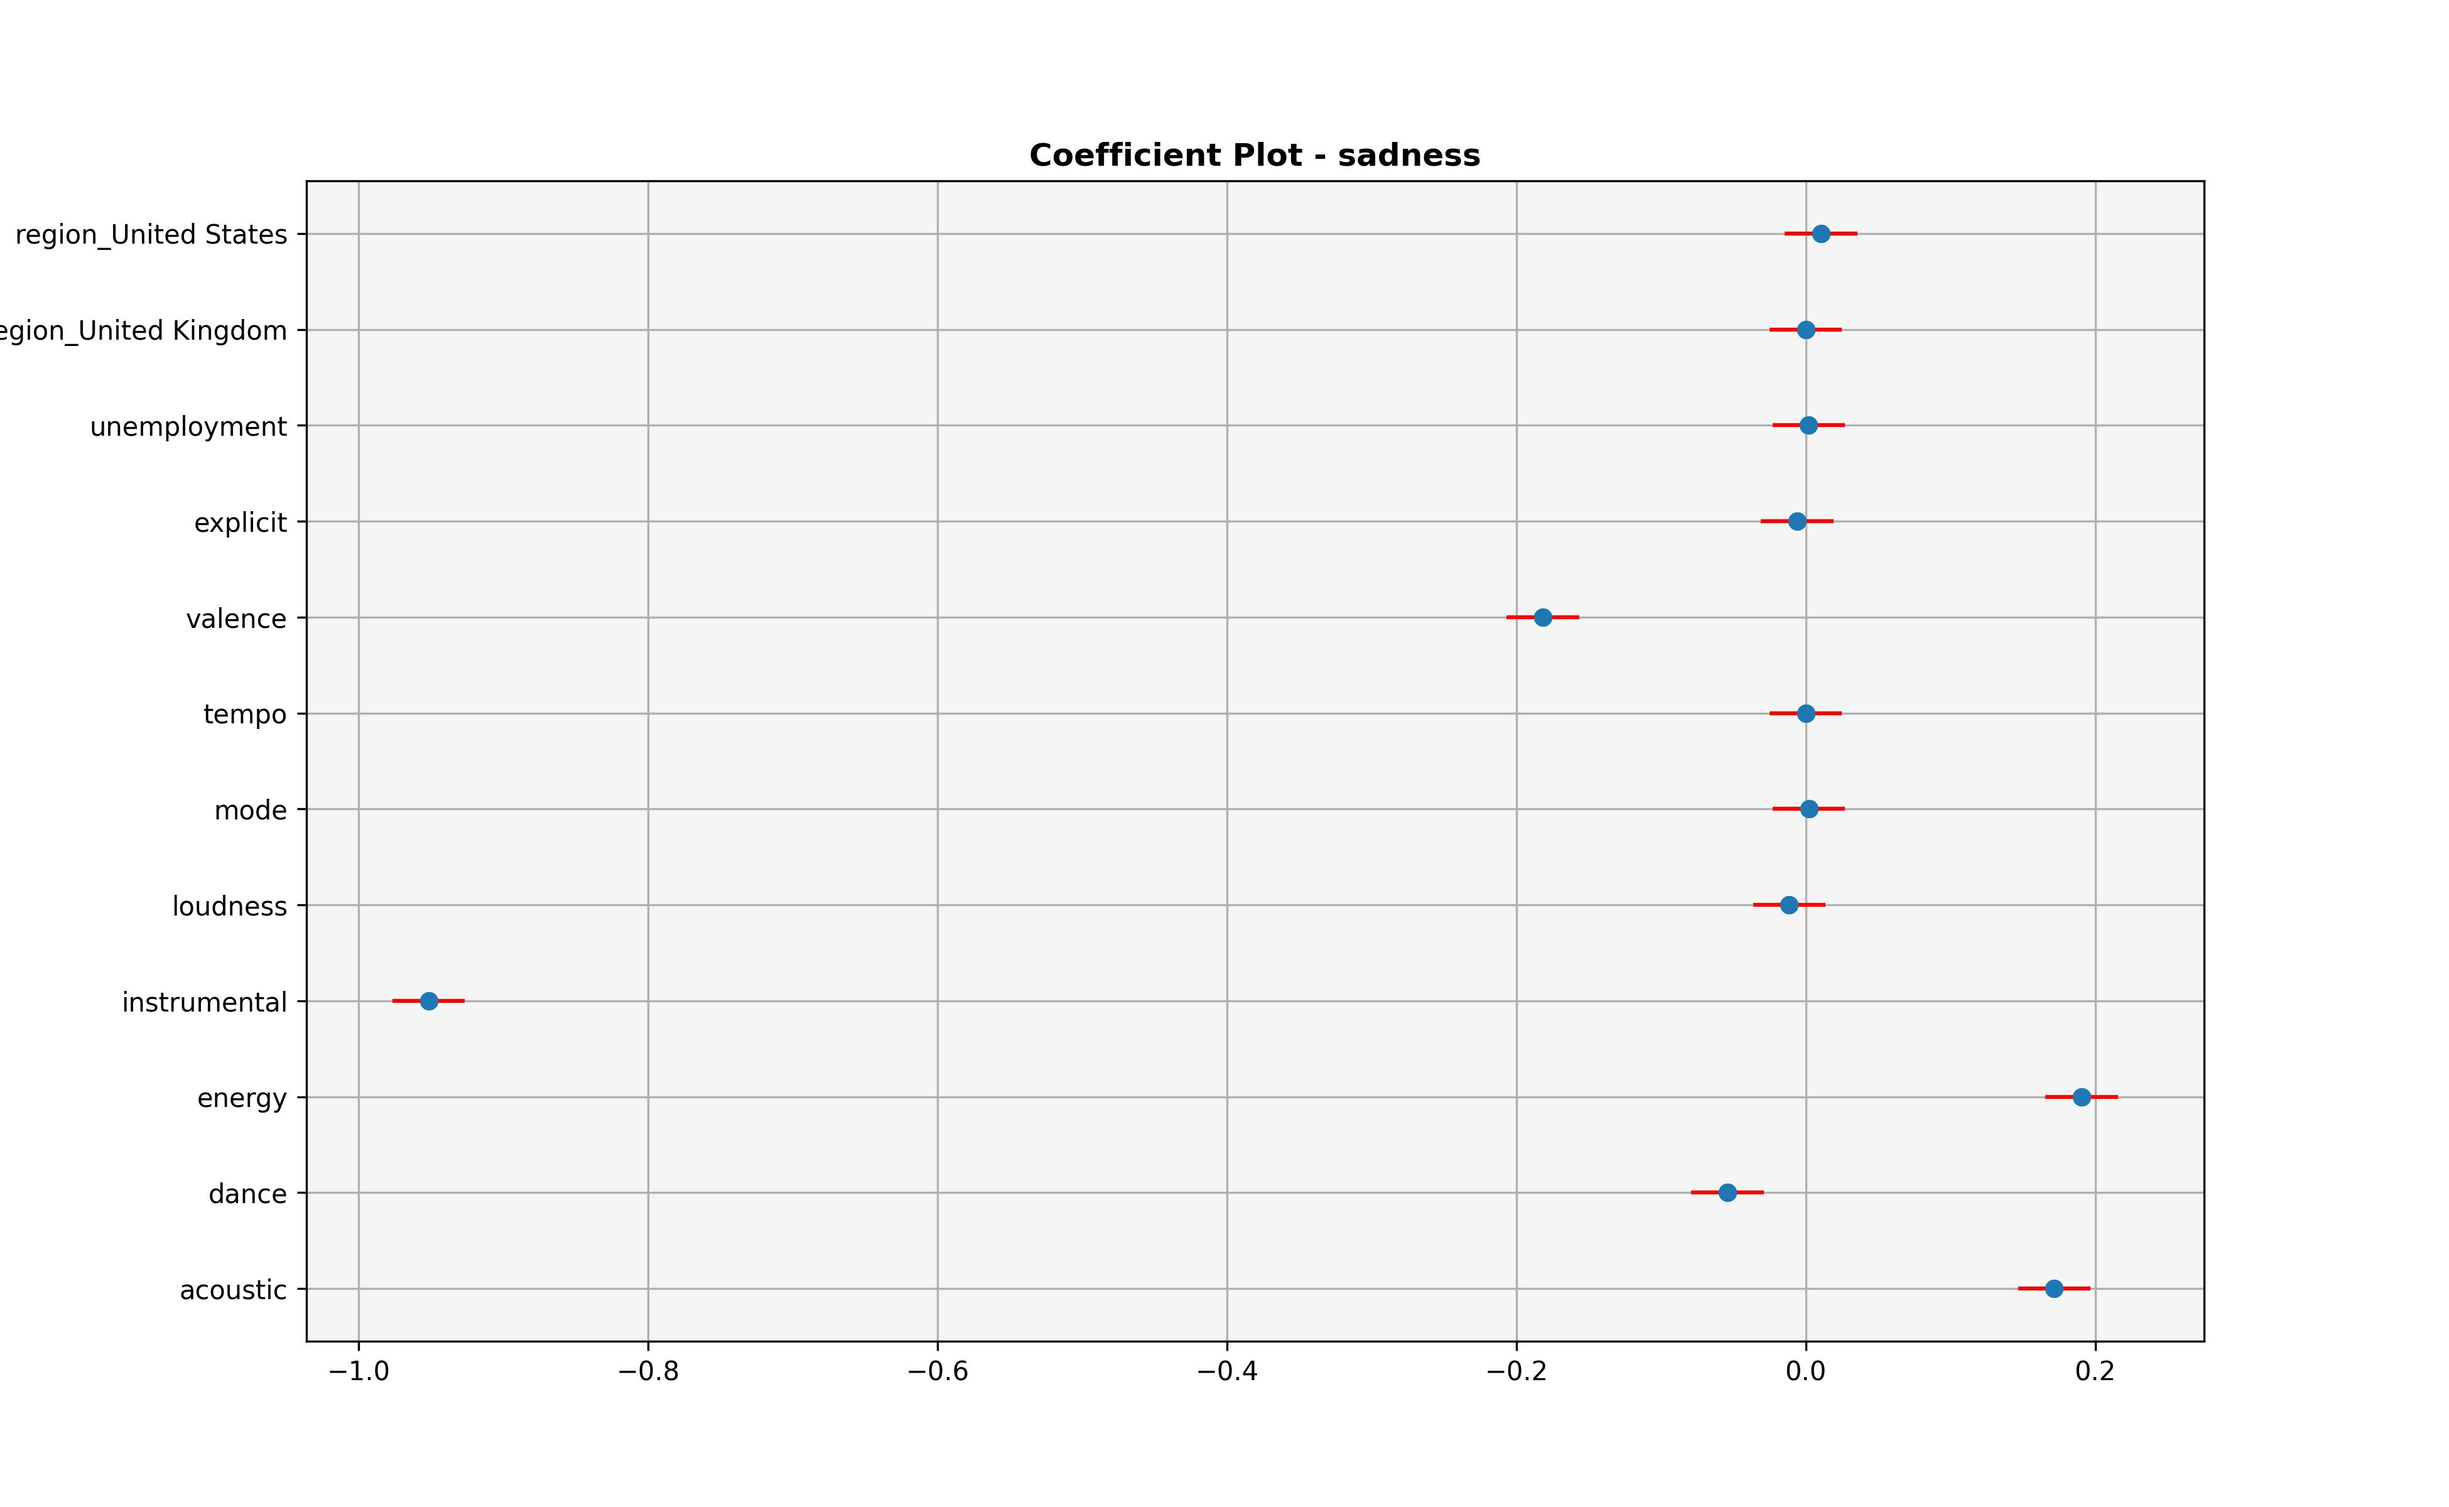
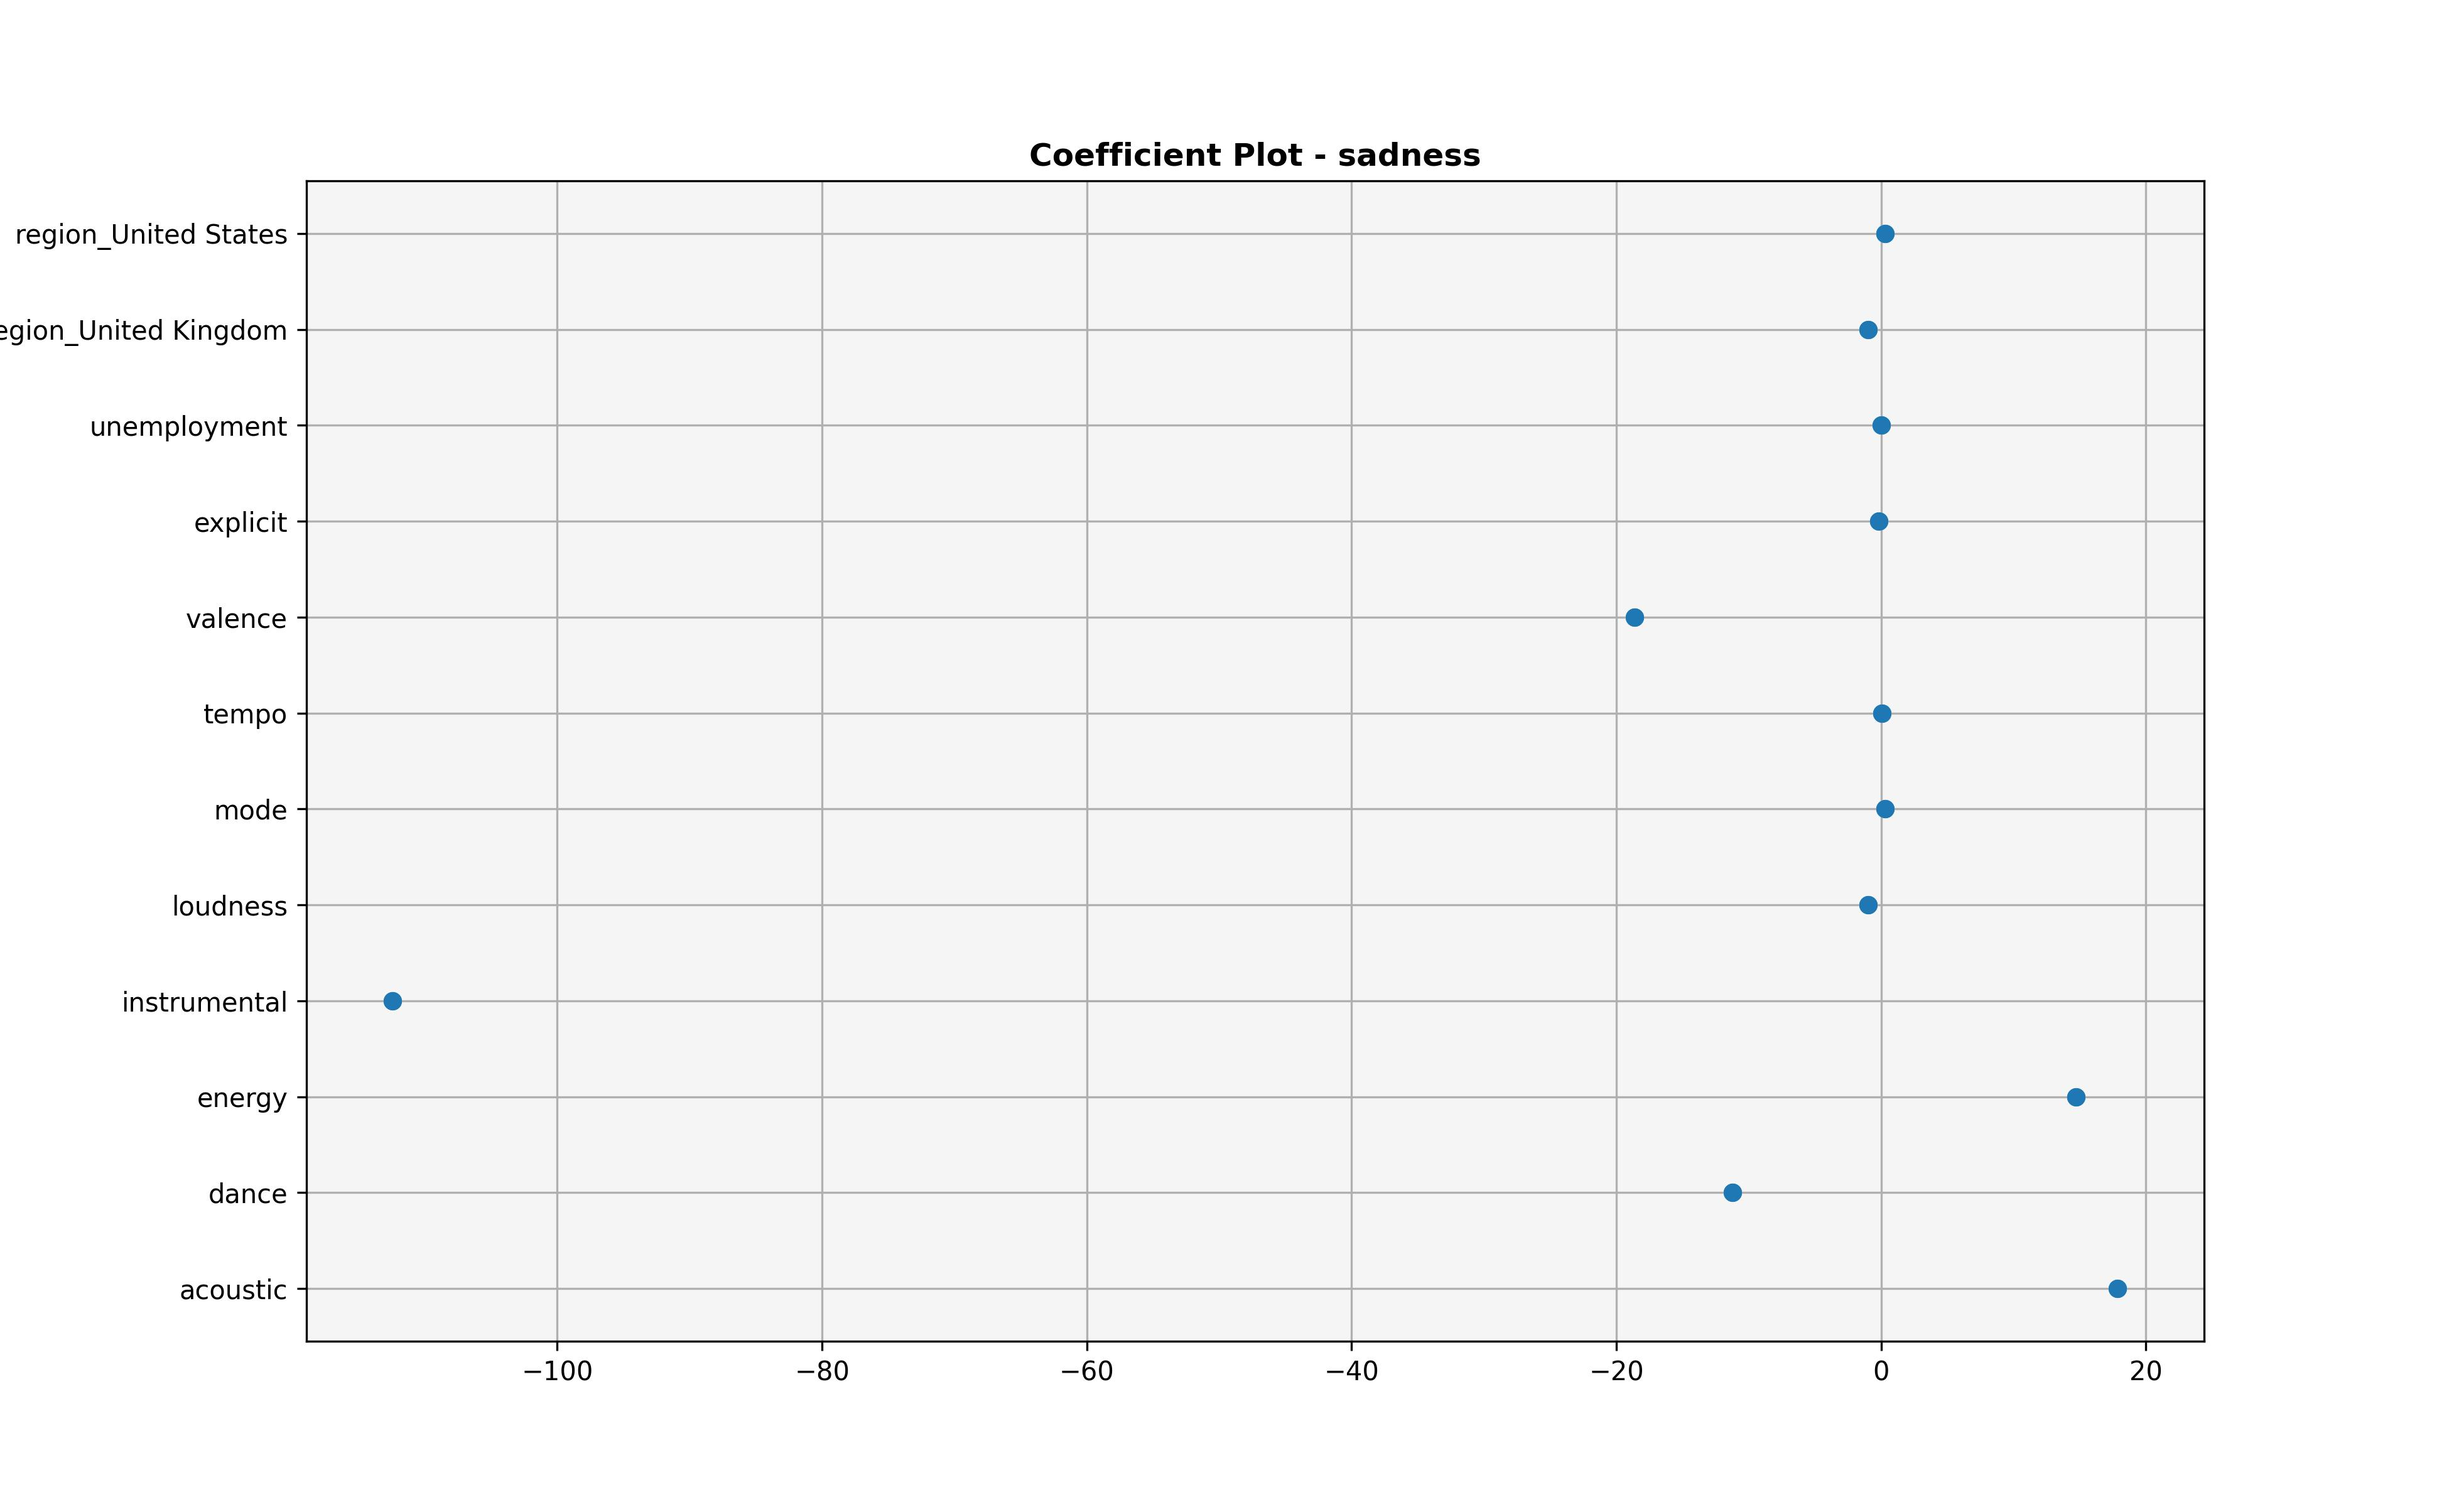
done almost

diff --git a/code/main.py b/code/main.py
@@ -13,6 +13,7 @@ from sklearn.neural_network import MLPClassifier, MLPRegressor
 from sklearn.metrics import accuracy_score
 from sklearn.preprocessing import StandardScaler
 import numpy as np
+from statsmodels.iolib.summary2 import summary_col
 
 
 
@@ -37,8 +38,9 @@ def linear_regressors(df):
     Evaluating initial coefficients assigned using OLS, Lasso, and Ridge
     '''
     outcomes = ['anger', 'love', 'sadness', 'emotions_id']
+    trained_models = []
     for y in outcomes:
-        X_train, X_test, y_train, y_test, cols = data_split(df,y)
+        X_train, X_test, y_train, y_test, cols = data_split(df,y, True)
         sm.add_constant(X_train)
         sm.add_constant(X_test)
         #print(X_train.head())
@@ -57,8 +59,11 @@ def linear_regressors(df):
         plt.savefig('../outputs/coefficients_' + y +  '.jpeg', dpi=300)
         plt.show()
         visualise(df, y)
-    
+        trained_models.append(trained_ols)
         print(trained_ols.summary())
+    summary = summary_col(trained_models, stars=True, float_format='%0.2f', model_names=outcomes, regressor_order=['unemployment', 'acoustic', 'dance', 'energy', 'instrumental', 'loudness', 'mode', 'tempo', 'valence', 'explicit'], drop_omitted=True).as_latex()
+    with open('../outputs/ols_table.tex', 'w') as file:
+        file.write(summary)
 
 
 def multilayer(df):
@@ -66,7 +71,7 @@ def multilayer(df):
     #'anger', 'love', 'sadness', 
     outcomes = ['anger', 'love', 'sadness', 'emotions_id']
     for y in outcomes:
-        X_train, X_test, y_train, y_test, cols = data_split(df,y)
+        X_train, X_test, y_train, y_test, cols = data_split(df,y, False)
         #print(X_train)
         scaler=StandardScaler() 
         scaler.fit(X_train) 
@@ -168,7 +173,7 @@ def main():
     #print(len(init_data))
     #print(init_data.describe())
     init_data.describe().to_csv('../outputs/descriptive_stats.csv')
-    #linear_regressors(init_data)
+    linear_regressors(init_data)
 
     #multilayer(init_data)
 

diff --git a/outputs/ols_table.tex b/outputs/ols_table.tex
@@ -1,0 +1,37 @@
+\begin{table}
+\caption{}
+\label{}
+\begin{center}
+\begin{tabular}{lllll}
+\hline
+               & anger     & love      & sadness   & emotions\_id  \\
+\hline
+unemployment   & -0.74*    & -0.75     & 0.01      & 2.35**        \\
+               & (0.39)    & (0.70)    & (0.36)    & (1.12)        \\
+acoustic       & -8.37**   & 23.43***  & 17.86***  & -12.91        \\
+               & (3.67)    & (6.58)    & (3.44)    & (9.65)        \\
+dance          & 21.86***  & -19.35**  & -11.20**  & 48.30***      \\
+               & (5.33)    & (9.56)    & (4.99)    & (14.36)       \\
+energy         & -26.01*** & 38.37***  & 14.73***  & -97.48***     \\
+               & (5.90)    & (10.58)   & (5.53)    & (16.28)       \\
+instrumental   & 57.31     & 39.32     & -112.43** & -249.33       \\
+               & (53.67)   & (96.21)   & (50.27)   & (159.78)      \\
+loudness       & 1.73***   & -2.62***  & -0.98**   & 5.67***       \\
+               & (0.41)    & (0.74)    & (0.39)    & (1.10)        \\
+mode           & 1.52      & -4.40     & 0.28      & 11.17***      \\
+               & (1.51)    & (2.71)    & (1.41)    & (4.03)        \\
+tempo          & 0.21***   & -0.00     & 0.08***   & 1.00***       \\
+               & (0.03)    & (0.05)    & (0.03)    & (0.08)        \\
+valence        & 1.72      & 28.35***  & -18.63*** & -47.05***     \\
+               & (3.69)    & (6.61)    & (3.45)    & (9.85)        \\
+explicit       & 20.68***  & -12.09*** & -0.15     & 15.34***      \\
+               & (1.66)    & (2.98)    & (1.56)    & (4.44)        \\
+R-squared      & 0.62      & 0.46      & 0.31      & 0.61          \\
+R-squared Adj. & 0.61      & 0.45      & 0.30      & 0.60          \\
+\hline
+\end{tabular}
+\end{center}
+\end{table}
+\bigskip
+Standard errors in parentheses. \newline 
+* p<.1, ** p<.05, ***p<.01

diff --git a/code/preprocess.py b/code/preprocess.py
@@ -12,7 +12,7 @@ def load_data():
     final_df.to_csv('../data/combined.csv')
     return final_df
 
-def data_split(init_df, ycol):
+def data_split(init_df, ycol, norm):
     '''Normalizing and splitting data into training and testing sets'''
 
     init_df = init_df[['acoustic', 'dance', 'energy', 'instrumental', 'loudness', 'mode', 'tempo', 'valence', 'explicit', 'unemployment', 'region', ycol]]
@@ -21,19 +21,26 @@ def data_split(init_df, ycol):
     #print(init_df.head())
     #cols = init_df.columns
     #print(cols)
-
-    #init_df['unemployment'] = normalize(init_df['unemployment']) 
+    init_df = pd.get_dummies(init_df, columns=['region'], drop_first=True)
+     
+    
 
     #df_scaled = pd.DataFrame(df_scaled, columns=cols) 
-    init_df = pd.get_dummies(init_df, columns=['region'], drop_first=True) #one hot encoding countries for fixed effects
+     #one hot encoding countries for fixed effects
     #print(df_encoded.head())
     #print(len(init_df))
     if ycol == 'emotions_id':
         init_df = init_df[init_df['emotions_id'] <= 1]
         #print(len(init_df))
+    #init_df = init_df.drop(columns=['region']).astype(float)
+    
     y=init_df[ycol]
-    init_df = init_df.astype(float)
     X=init_df.drop(columns=[ycol])
+
     cols = X.columns
+    if norm:
+        new_df = normalize(X)
+        X = pd.DataFrame(new_df, columns=cols, index=X.index)
+        
     X_train, X_test, y_train, y_test = train_test_split(X, y, test_size=0.2, random_state=1680)
     return X_train, X_test, y_train, y_test, cols
